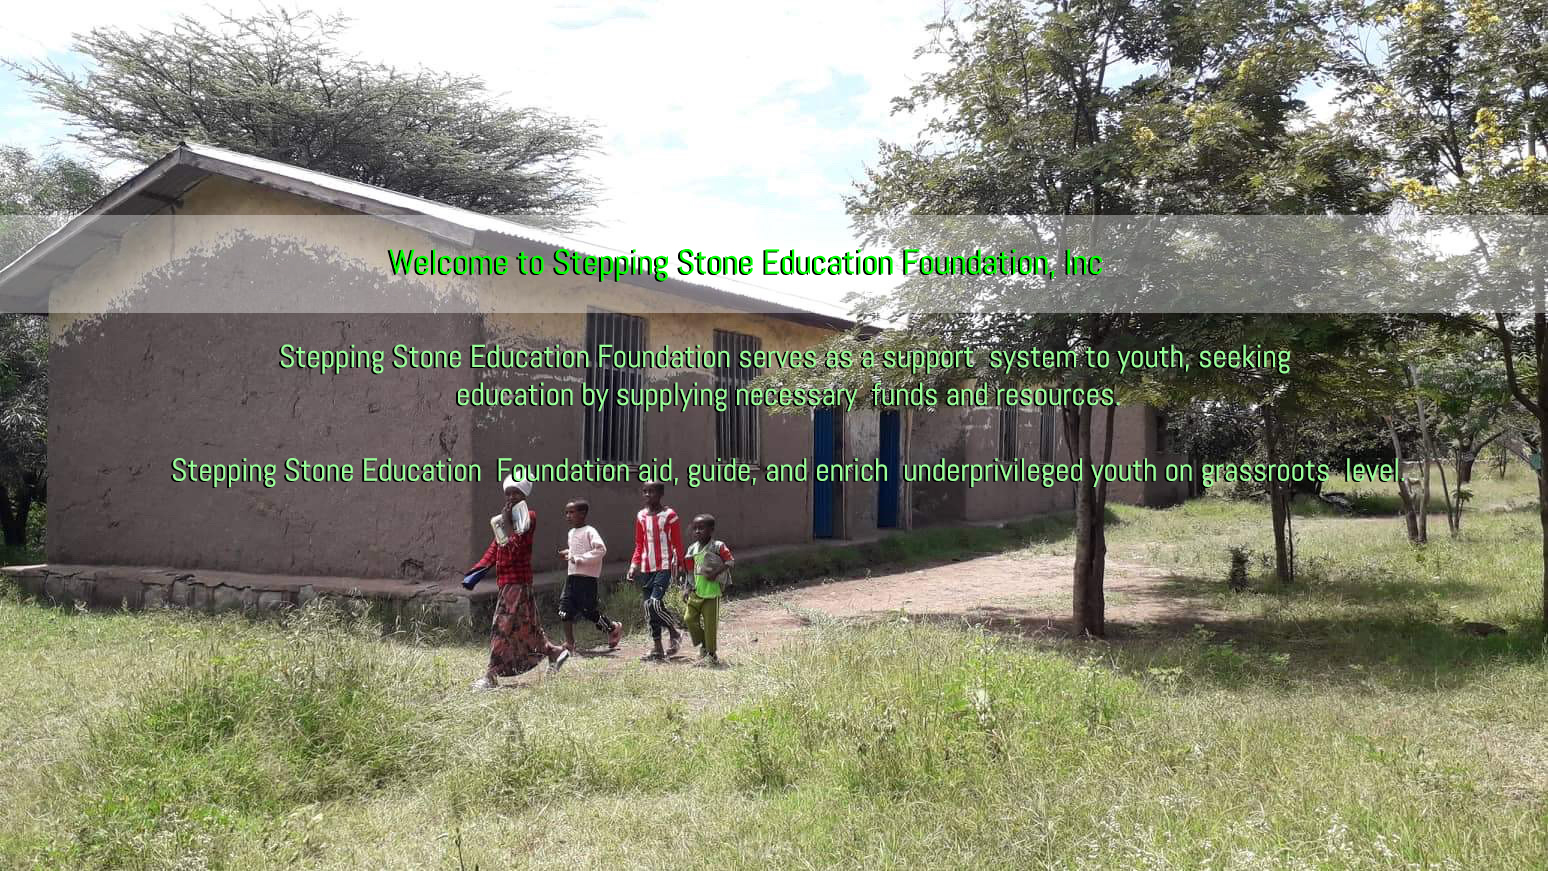
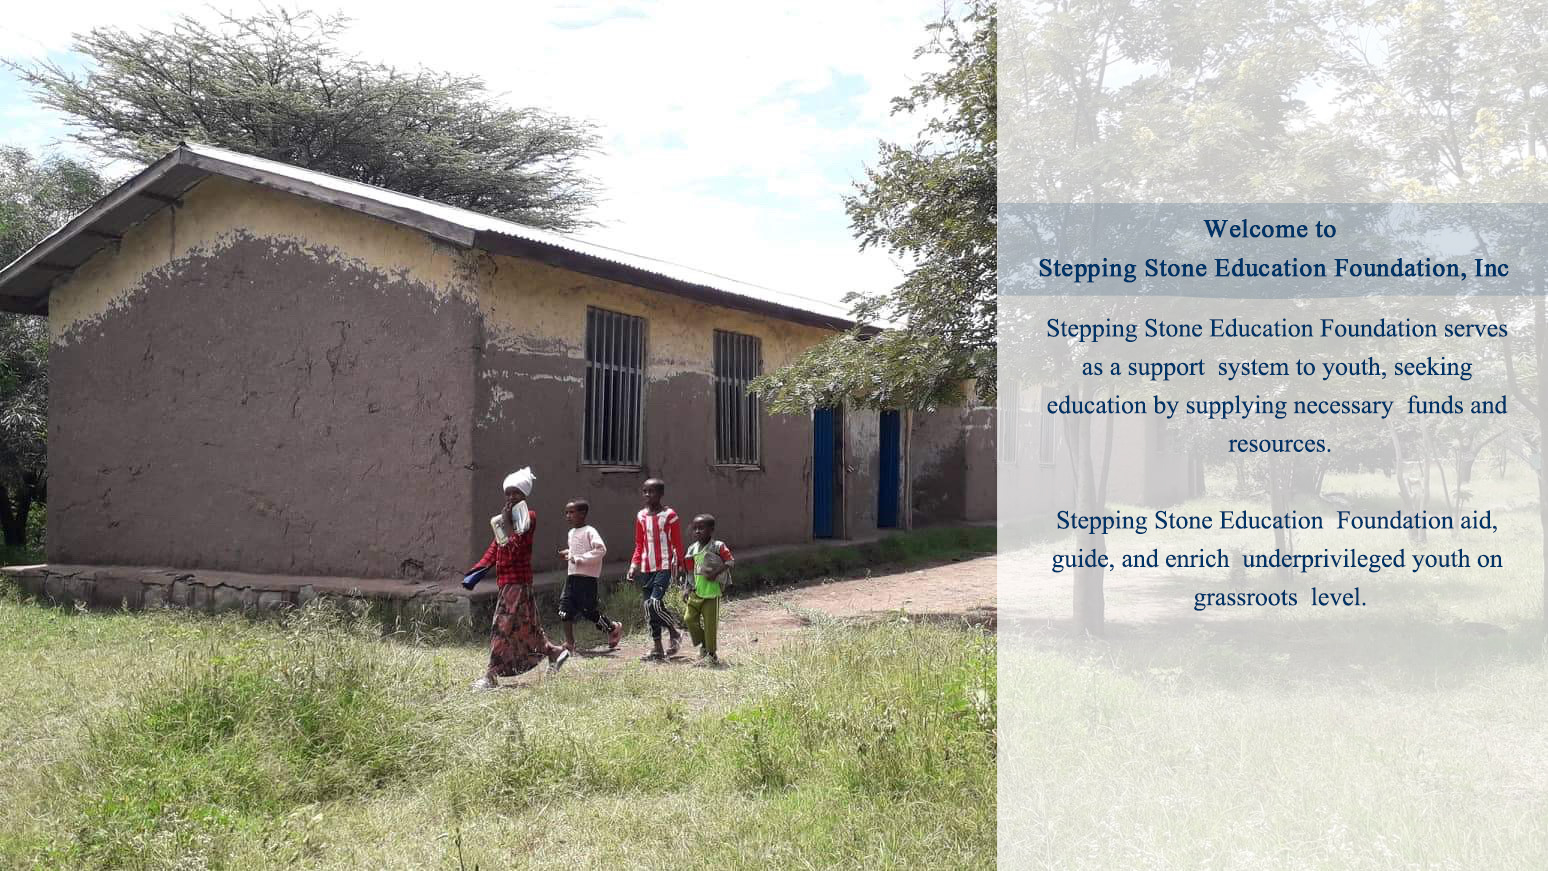
updates

diff --git a/SteppingStone/app/app.component.html b/SteppingStone/app/app.component.html
@@ -53,7 +53,8 @@
                         <div class='navbar navbar-inverse pull-right'>
                             <div class='container-fluid'>
                                 <ul class='nav navbar-nav'>
-                                    <li class="pull-right"><a [routerLink]="['user']" (click)="Userlogin()">Login</a></li>
+                                    <!--<li class="pull-right"><a [routerLink]="['user']" (click)="">Login</a></li>-->
+                                    <li><a href="#"><span (click)="Userlogin()">Login</span></a></li>
                                 </ul>
                             </div>
                         </div>
@@ -85,7 +86,7 @@
                         <div class='navbar navbar-inverse pull-right'>
                             <div class='container-fluid'>
                                 <ul class='nav navbar-nav'>
-                                    <li *ngIf="IsAdmin"><a href="#"><span (click)="logout()">Logout</span></a></li>
+                                    <li><a href="#"><span (click)="logout()">Logout</span></a></li>
                                 </ul>
                             </div>
                         </div>
@@ -111,7 +112,7 @@
         </div>
     </nav>-->
 
-    <div class='container' style="min-height:700px;">
+    <div class='container' style="min-height:550px;">
         <router-outlet></router-outlet>
     </div>
     </div>
@@ -121,10 +122,10 @@
         <form novalidate (ngSubmit)="onSubmit(userFrm)" [formGroup]="userFrm">
 
             <modal-header [show-close]="true">
-                <h4 class="modal-title">Adminstration Login</h4>
+                <h4 class="modal-title" style="letter-spacing: 2px; text-align:center"><b>ADMINISTRATION LOGIN</b></h4>
             </modal-header>
-            <div>
-                To access Administration site, please enter username and password.
+            <div style="padding-left:20px; padding-right:20px;">
+                <b> To access Administration site, please enter username and password.</b>
             </div>
             <modal-body>
                 <modal-body>
@@ -138,7 +139,7 @@
                         </div>
                         <div>
                             <span>Password*</span>
-                            <input type="password" class="form-control" placeholder="Password" formControlName="Password" width="150">
+                            <input type="password" class="form-control" placeholder="Password" formControlName="Password" width="100">
                         </div>
                     </div>
                 </modal-body>

diff --git a/SteppingStone/app/mission/mission.component.html b/SteppingStone/app/mission/mission.component.html
@@ -4,15 +4,15 @@
             {{pageTitle}}
         </div>-->
         <div class="card-body">
-            <div class="container-fluid" style="width:50%; float:left;">
+            <div class="container-fluid" style="width:45%; float:left;">
                 <div *ngFor="let mission of missions">
                     <div class="pagetitle">{{mission.Title}}</div>
                     <div [innerHtml]="mission.Description"></div>
                     <div style="line-height:normal">&nbsp;</div>
                 </div>
             </div>
-            <div style="width:50%; float:left; clear:right">
-                <img src="../../images/ourmission.jpg" />
+            <div style="width:55%; float:left; clear:right">
+                <img src="../../images/ourmission.jpg" style="width:100%"/>
             </div>
         </div>
     </div>

diff --git a/SteppingStone/app/volunteer/volunteer.component.html b/SteppingStone/app/volunteer/volunteer.component.html
@@ -78,11 +78,11 @@
                     </div>
                     <div>
                         <span>Tell us a bit about yourself and why you are interested in volunteering</span>
-                        <textarea rows="5" class="form-control" placeholder="Tell us a bit about yourself" formControlName="TellUs"></textarea>
+                        <textarea rows="5" class="form-control" placeholder="Tell us a bit about yourself" formControlName="TellUs" style="width:75%"></textarea>
                     </div>
                 </div>
 
-                <div>
+                <div style="padding-bottom:20px;">
                     <button type="submit" [disabled]="volunteerFrm.invalid" class="btn btn-primary">Submit</button>
                 </div>
 

diff --git a/SteppingStone/app/sponsorstudent/sponsorstudent.component.html b/SteppingStone/app/sponsorstudent/sponsorstudent.component.html
@@ -164,11 +164,11 @@
                     </div>
                     <div>
                         <span>Message*</span>
-                        <textarea rows="5" class="form-control" placeholder="Message" formControlName="Message"></textarea>
+                        <textarea rows="5" class="form-control" placeholder="Message" formControlName="Message" style="width:75%"></textarea>
                     </div>
                 </div>
 
-                <div>
+                <div style="padding-bottom:20px;">
                     <button type="submit" [disabled]="sponsorStudentFrm.invalid" class="btn btn-primary">Submit</button>
                 </div>
 

diff --git a/SteppingStone/app/ourapproach/ourapproach.component.html b/SteppingStone/app/ourapproach/ourapproach.component.html
@@ -1,12 +1,15 @@
 <div style="padding-left:25px;">
     <div class="card">
         <div class="card-body">
-            <div class="container-fluid">
+            <div class="container-fluid" style="width:47%; float:left;">
                 <div *ngFor="let ourapproach of ourapproaches">
                     <div class="pagetitle">{{ourapproach.Title}}</div>
                     <div [innerHtml]="ourapproach.Description"></div>
                 </div>
             </div>
+        </div>
+        <div style="width:53%; float:left; clear:right">
+            <img src="../../images/schoolsupplies.jpg" style="width:100%"/>
         </div>
     </div>
 </div>

diff --git a/SteppingStone/app/contactus/contactus.component.html b/SteppingStone/app/contactus/contactus.component.html
@@ -30,11 +30,11 @@
                     </div>
                     <div>
                         <span>Message*</span>
-                        <textarea rows="5" class="form-control" placeholder="Message" formControlName="Message"></textarea>
+                        <textarea rows="5" class="form-control" placeholder="Message" formControlName="Message" style="width:75%"></textarea>
                     </div>
                 </div>
 
-                <div>
+                <div style="padding-bottom:20px;">
                     <button type="submit" [disabled]="contactusFrm.invalid" class="btn btn-primary">Submit</button>
                 </div>
 

diff --git a/SteppingStone/app/aboutus/aboutus.component.html b/SteppingStone/app/aboutus/aboutus.component.html
@@ -1,4 +1,4 @@
-<div style="padding-left:25px;">
+<div style="padding-left:25px; overflow:inherit">
     <div class="card">
         <div class="card-body">
             <div class="container-fluid">
@@ -8,7 +8,7 @@
                 </div>
             </div>
             <div style="text-align:center; padding-top:20px;">
-                <img src="../../images/ourwork.jpg" />
+                <img src="../../images/ourwork.jpg" style="width:100%" />
             </div>
         </div>
     </div>

diff --git a/SteppingStone/Content/css/StyleSheet2.css b/SteppingStone/Content/css/StyleSheet2.css
@@ -45,13 +45,13 @@
 
 .pagetitle {
     /*font-family: Trebuchet MS; #006699*/
-    font-family: Abel Regular;
-    color: darkgreen !important;
+    font-family: 'Arial Rounded MT';
+    color: #003366 !important;
     font-size: 40px !important;
     font-weight: 900 !important;
     margin-top: 15px !important;
     margin-bottom: 15px !important;
-    line-height:50px;
+    line-height: 50px;
     /*text-transform: uppercase;*/
 }
 
